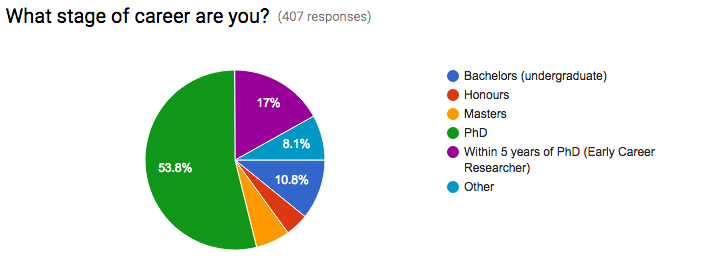
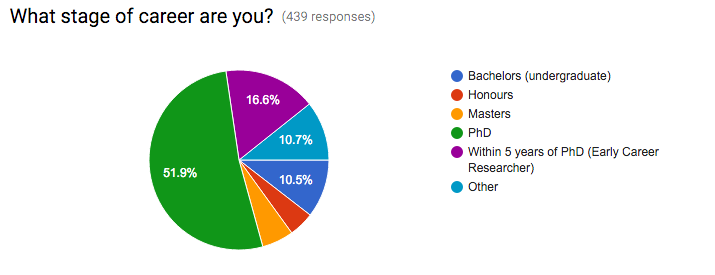
+17, -1 names, update stage pic

diff --git a/index.html b/index.html
@@ -108,6 +108,7 @@
 <tr><td>Bhupendra Raut</td><td>Atmospheric Sciences</td><td>Monash University</td></tr>
 <tr><td>Bianca Kallenberg</td><td>Climate change</td><td>ANU</td></tr>
 <tr><td>Blanche D'Anastasi</td><td>Marine Conservation Genomics and Ecology</td><td>James Cook University</td></tr>
+<tr><td>Bradley Lane</td><td>Cities</td><td></td></tr>
 <tr><td>Brendan Hanger</td><td>Mantle Processes/Earth Science Education</td><td>Australian National University</td></tr>
 <tr><td>Brook Dambacher </td><td>Undergraduate</td><td>UTAS</td></tr>
 <tr><td>Bryce Kelly</td><td>Earth and Environmental Sciences</td><td>UNSW Australia</td></tr>
@@ -128,6 +129,7 @@
 <tr><td>Celine Nobel</td><td>Hydrology</td><td>VU University Amsterdam</td></tr>
 <tr><td>Cesar Azorin-Molina</td><td></td><td>Spanish National Research Council</td></tr>
 <tr><td>Charles Maddison</td><td>Social Work</td><td>Flinders Uni</td></tr>
+<tr><td>Chas Savage</td><td>Communications</td><td></td></tr>
 <tr><td>Chiara Holgate</td><td>Land surface processes</td><td>Australian National University</td></tr>
 <tr><td>Cho Kwong Charlie Lam</td><td>Urban climate</td><td>Monash University</td></tr>
 <tr><td>Chris Turnadge</td><td>Hydrogeology</td><td></td></tr>
@@ -140,7 +142,9 @@
 <tr><td>Cindy Liles</td><td>Geography</td><td>Newcastle university</td></tr>
 <tr><td>Claire Brandenburger</td><td>Evolution of introduced plants</td><td>University of New South Wales, Australia</td></tr>
 <tr><td>Claire Mason</td><td>Societal Impacts of Digital Technology</td><td></td></tr>
+<tr><td>Claire Treilibs</td><td>Ecology</td><td>Flinders University</td></tr>
 <tr><td>Clara Graham </td><td>Ecology and Veterinary  Science</td><td></td></tr>
+<tr><td>Corrado Corradini</td><td>Hydrology</td><td>Dept. Civil and Environmental Engineering - UNI Perugia (Italy)</td></tr>
 <tr><td>Courtney Leigh</td><td>GIS</td><td>MOnash University</td></tr>
 <tr><td>Cristina Aponte</td><td>Ecology</td><td>University of Melbourne</td></tr>
 <tr><td>Damon Bolton</td><td>Marine Ecology</td><td>The University of New South Wales</td></tr>
@@ -168,6 +172,7 @@
 <tr><td>Efthymios Nikolopoulos</td><td>Hydrometeorology</td><td>University of Athens</td></tr>
 <tr><td>Elaine Fernandes</td><td>Climate Change Adaptation</td><td>Monash University</td></tr>
 <tr><td>Elena Angelides</td><td>Undergraduate</td><td>UNSW</td></tr>
+<tr><td>Elisa Destro</td><td>Hydrology</td><td>University of Padova</td></tr>
 <tr><td>Elisa Holgate</td><td>Water engineering/ecology</td><td>UNSW</td></tr>
 <tr><td>Elisabeth Vogel</td><td>Earth Sciences</td><td>University of Melbourne</td></tr>
 <tr><td>Emi Tanaka</td><td>Statistics </td><td>University of Wollongong </td></tr>
@@ -184,6 +189,7 @@
 <tr><td>Evgeny Zavarygin</td><td>Astrophysics</td><td>UNSW</td></tr>
 <tr><td>Fabio Dias</td><td>Ocean heat content and sea level projections</td><td>UTAS</td></tr>
 <tr><td>Frances Alexander</td><td>Ecotoxicology</td><td>Australian Antarctic Division and Southern Cross University</td></tr>
+<tr><td>Francesco Marra</td><td>Hydrometeorology</td><td></td></tr>
 <tr><td>Gabriel Paiva Lago</td><td>Land and water contamination</td><td>UTS</td></tr>
 <tr><td>Gabriela Arcoverde</td><td>Environmental Science </td><td></td></tr>
 <tr><td>Gabriella Macoustra</td><td>Environmental toxicology</td><td>University of Wollongong</td></tr>
@@ -242,6 +248,7 @@
 <tr><td>Jessica Amies</td><td>Palaeoclimate</td><td>ANU</td></tr>
 <tr><td>Jessica Frawley</td><td>IT</td><td>UTS</td></tr>
 <tr><td>Jessica Merrett </td><td>Marine debris </td><td>UNSW </td></tr>
+<tr><td>Jessica Pizarro</td><td>Climate change in uranium mining</td><td></td></tr>
 <tr><td>Jiawei Bao</td><td>Climate science</td><td>UNSW</td></tr>
 <tr><td>Jinglin Zhao</td><td>Astrophysics</td><td>UNSW</td></tr>
 <tr><td>Joan llort</td><td>Marine biogeochemistry</td><td>IMAS</td></tr>
@@ -250,6 +257,7 @@
 <tr><td>John Kandulu</td><td>Economics</td><td>University of Adelaide</td></tr>
 <tr><td>John Pengelly</td><td>Water Chemistry</td><td>La Trobe University</td></tr>
 <tr><td>John Porter</td><td>Environment Research and Management</td><td>University of NSW</td></tr>
+<tr><td>José A. Guijarro</td><td>Climatology</td><td>AEMET</td></tr>
 <tr><td>Josephine Ward</td><td>Geology</td><td>ANU</td></tr>
 <tr><td>Jozef Syktus</td><td>Global Change & Climate Science</td><td>Global Change Institute, UQ & QLD Government</td></tr>
 <tr><td>Julia Prior</td><td>software development practice, HCI</td><td>University of Technology Sydney</td></tr>
@@ -288,10 +296,12 @@
 <tr><td>Lauren Roman</td><td>Marine Science</td><td>Institute for Marine and Antarctic Studies</td></tr>
 <tr><td>Lauren Smith</td><td>Cardiac proteomics</td><td>University of Sydney</td></tr>
 <tr><td>Lauren Taylor</td><td>Undergraduate</td><td>UNSW</td></tr>
+<tr><td>Leah Bullen</td><td>Creative Arts</td><td>ANU</td></tr>
 <tr><td>Lei Cheng</td><td>Hydrology and Climate Change</td><td>CSIRO</td></tr>
 <tr><td>Leonie Kiewiet</td><td>Hydrology</td><td>University of Zurich</td></tr>
 <tr><td>Libaros Damien</td><td>Oceanography</td><td>IMAS</td></tr>
 <tr><td>Liesl Grant</td><td>Marine Biology</td><td>Macquarie University</td></tr>
+<tr><td>Lindsay B. Hutley</td><td>Land-atmosphere interactions</td><td>Charles Darwin University</td></tr>
 <tr><td>Lisa Caripis</td><td>Climate Law</td><td>Melbourne Law School</td></tr>
 <tr><td>Luana Tommasi Vittorazzo</td><td>Oceanography</td><td>University of New South Wales</td></tr>
 <tr><td>Lucas Silva</td><td>Marine Biology</td><td>UNSW</td></tr>
@@ -339,6 +349,7 @@
 <tr><td>Michelle Pickrell</td><td>Design</td><td>UTS</td></tr>
 <tr><td>Miranda Nieboer</td><td>Antarctica, Architecture & Humanities</td><td>IMAS</td></tr>
 <tr><td>Morgan Williams</td><td>Geochemistry</td><td>The Australian National University</td></tr>
+<tr><td>Murray Peel</td><td>Hydroclimatology</td><td>Infrastructure Engineering, University of Melbourne</td></tr>
 <tr><td>Nadja Herger</td><td>PhD</td><td>CCRC (UNSW)</td></tr>
 <tr><td>Narissa Bax</td><td>Marine Biology</td><td>Institute for Marine and Antarctic Studies, University of Tasmania</td></tr>
 <tr><td>Natalie Rogers</td><td>Psychology and Paleoanthropology</td><td>UNSW Australia</td></tr>
@@ -416,7 +427,9 @@
 <tr><td>Shannon Mason</td><td>Atmospheric science</td><td>University of Reading</td></tr>
 <tr><td>Shannon McConachie</td><td>Earth Science</td><td>Australian National University</td></tr>
 <tr><td>Shannu Palamuru</td><td>Chemistry/Biochemistry</td><td>ANU</td></tr>
+<tr><td>Sharon Every</td><td>Marine Ecology</td><td>Charles Darwin University / ANU</td></tr>
 <tr><td>Sharon Gray</td><td>Hydrogeology/Biogeochemistry</td><td>ANU</td></tr>
+<tr><td>Sharon Robinson</td><td>Global Change biology </td><td>University of Wollongong</td></tr>
 <tr><td>Sheridan Martin</td><td>Environmental Contaminants</td><td></td></tr>
 <tr><td>Shila Ghazanfar</td><td>Bioinformatics</td><td>The University of Sydney</td></tr>
 <tr><td>Shivanesh Rao</td><td>Oceanography</td><td>University of New South Wales</td></tr>
@@ -424,8 +437,10 @@
 <tr><td>Sienna Xue</td><td>Environmental Engineering</td><td>Unsw</td></tr>
 <tr><td>Simone Birrer</td><td>Microbial ecology</td><td>UNSW</td></tr>
 <tr><td>Simpson Wan</td><td>Undergraduate</td><td>UNSW</td></tr>
+<tr><td>Siobhan Tobin</td><td>Physics</td><td></td></tr>
 <tr><td>Sofie Voerman</td><td>Marine science</td><td>University of Technology Sydney</td></tr>
 <tr><td>Stacey McCormack</td><td>Quantitative Antarctic Science</td><td>Institute for Marine and Antarctic Research</td></tr>
+<tr><td>Stan Schymanski</td><td>Environmental Science</td><td>ETH Zurich</td></tr>
 <tr><td>Steefan Contractor</td><td>Climate Science</td><td>UNSW Australia</td></tr>
 <tr><td>Stephanie Brodie</td><td>Marine science</td><td>University of New South Wales</td></tr>
 <tr><td>Stephanie Jacobs</td><td>Urban climate</td><td>Monash University</td></tr>
@@ -434,6 +449,7 @@
 <tr><td>Susie Wang</td><td>Social Psychology - Climate Change</td><td>University of Western Australia</td></tr>
 <tr><td>Swa Rath</td><td>Tertiary Education Management</td><td>UNSW</td></tr>
 <tr><td>Tara Djokic</td><td>Geology</td><td>UNSW</td></tr>
+<tr><td>Teresa Gimeno</td><td>Biogeochemistry</td><td>INRA France</td></tr>
 <tr><td>Thavamani Palanisami</td><td>Environment</td><td>University of Newcastle</td></tr>
 <tr><td>Thibaut de la Chesnais</td><td>Marine Biology</td><td>IMAS</td></tr>
 <tr><td>Thomas Griffiths</td><td>Chemical Biophysics & Biochemistry</td><td>University of Wollongong</td></tr>
@@ -442,7 +458,6 @@
 <tr><td>Tim McVicar</td><td>Hydrology</td><td></td></tr>
 <tr><td>Timothy Remaili</td><td>Environmental Toxicology and Chemistry</td><td>University of Wollongong</td></tr>
 <tr><td>Timothy Staples</td><td>Community Ecology</td><td>University of Queensland</td></tr>
-<tr><td>Todd</td><td>Medical Science</td><td>University of Wollongong</td></tr>
 <tr><td>Todd McGarvey</td><td>Climate mitigation and adaptation</td><td>University of Maryland</td></tr>
 <tr><td>Tom Fairman</td><td>Ecology</td><td>University of Melbourne</td></tr>
 <tr><td>Tom Swann</td><td>Climate Change</td><td>ANU</td></tr>
@@ -469,6 +484,7 @@
 <tr><td>Xavier Ho </td><td>Interaction Design </td><td>The University of Sydney </td></tr>
 <tr><td>Xiaoqing Wang </td><td>Power drive system </td><td>Electrical engineering </td></tr>
 <tr><td>Xihan Mu</td><td>Remote sensing</td><td></td></tr>
+<tr><td>Yacouba Yira</td><td>Hydrology</td><td>University of Bonn</td></tr>
 <tr><td>Yaroslav Kharkov</td><td>Condensed Matter Physics</td><td>UNSW, School of Physics</td></tr>
 <tr><td>Yee-Fui Ng</td><td>Law</td><td>RMIT </td></tr>
 <tr><td>Yi Long</td><td>Immunology</td><td>BABS</td></tr>
